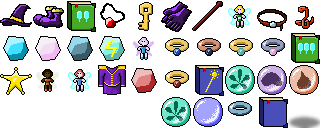
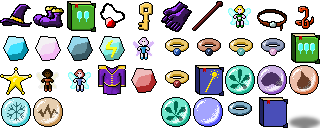
ADD Spell: Freeze Monsters

Changed region(s): [[0.0, 0.75, 0.2188, 1.0]]

diff --git a/src/PlayerEntity.cpp b/src/PlayerEntity.cpp
@@ -1310,6 +1310,11 @@ void PlayerEntity::setActiveSpell(enumCastSpell spell)
     activeSpell.frame = ItemSpellFireball - FirstEquipItem;
     break;
 
+  case SpellFreeze:
+    activeSpell.delayMax = 40.0f;
+    activeSpell.frame = ItemSpellFreeze - FirstEquipItem;
+    break;
+
   case SpellNone: break;
   }
   activeSpell.delay = activeSpell.delayMax;
@@ -1328,6 +1333,7 @@ void PlayerEntity::castSpell()
       case SpellTeleport: castTeleport(); break;
       case SpellSlimeExplode: castSummonsSlimeExplode(); break;
       case SpellFireball: castFireball(); break;
+      case SpellFreeze: castFreeze(); break;
 
       default: break;
     }
@@ -1422,4 +1428,28 @@ void PlayerEntity::castFireball()
   else velx = fireVelocity;
 
   bolt->setVelocity(Vector2D(velx, vely));
+}
+
+void PlayerEntity::castFreeze()
+{
+  for (int i = -1; i <= 1; i += 2)
+    for (int j = -1; j <= 1; j += 2)
+    {
+      BoltEntity* bolt1 = new BoltEntity(x, y - 10, boltLifeTime, ShotTypeIce, 1);
+      bolt1->setDamages(1);
+      float velx = fireVelocity * i * 0.84f;
+      float vely = fireVelocity * j * 0.84f;
+      bolt1->setVelocity(Vector2D(velx, vely));
+
+      BoltEntity* bolt2 = new BoltEntity(x, y - 10, boltLifeTime, ShotTypeIce, 1);
+      bolt2->setDamages(1);
+      velx = 0.0f;
+      vely = 0.0f;
+      if (i == -1 && j == -1) velx = -fireVelocity * i * 1.2f;
+      else if (i == -1 && j == 1) velx = fireVelocity * i * 1.2f;
+      else if (i == 1 && j == -1) vely= -fireVelocity * i * 1.2f;
+      else if (i == 1 && j == 1) vely = fireVelocity * i * 1.2f;
+      bolt2->setVelocity(Vector2D(velx, vely));
+  }
+  SoundManager::getInstance().playSound(SOUND_BLAST_STANDARD);
 }

diff --git a/src/Items.h b/src/Items.h
@@ -44,6 +44,7 @@ enum enumCastSpell
   SpellTeleport,
   SpellSlimeExplode,
   SpellFireball,
+  SpellFreeze,
 
   SpellNone
 };
@@ -53,7 +54,8 @@ const std::string spellLabel[SpellNone] =
 {
   "spell_teleport",
   "spell_slime_explode",
-  "spell_fireball"
+  "spell_fireball",
+  "spell_freeze"
 };
 
 /** Item type enum
@@ -100,6 +102,7 @@ enum enumItemType
   ItemSpellTeleport,
   ItemSpellSlimeExplode,
   ItemSpellFireball,
+  ItemSpellFreeze,
 
   NUMBER_ITEMS
 };
@@ -283,7 +286,11 @@ const itemStuct items[NUMBER_ITEMS] =
   {
     ItemSpellFireball, "item_spell_fireball", "item_spell_fireball_desc",
     60, true, FamiliarNone, false, false, true, 1, RarityCommon, AlignmentNone, -1, ShotTypeStandard, SpellFireball
-  }
+  },
+  {
+    ItemSpellFireball, "item_spell_freeze", "item_spell_freeze_desc",
+    60, true, FamiliarNone, false, false, true, 1, RarityCommon, AlignmentNone, -1, ShotTypeStandard, SpellFreeze
+  },
 };
 
 /** Item equipment type enum
@@ -319,6 +326,7 @@ enum item_equip_enum {
   EQUIP_MANUAL_STAFF,
   EQUIP_SPELL_TELEPORT,
   EQUIP_SPELL_FIREBALL,
+  EQUIP_SPELL_FREEZE,
 
   NUMBER_EQUIP_ITEMS
   };

diff --git a/src/PlayerEntity.h b/src/PlayerEntity.h
@@ -498,6 +498,7 @@ class PlayerEntity : public BaseCreatureEntity
     void castTeleport();
     void castSummonsSlimeExplode();
     void castFireball();
+    void castFreeze();
 };
 
 #endif // PLAYERSPRITE_H
